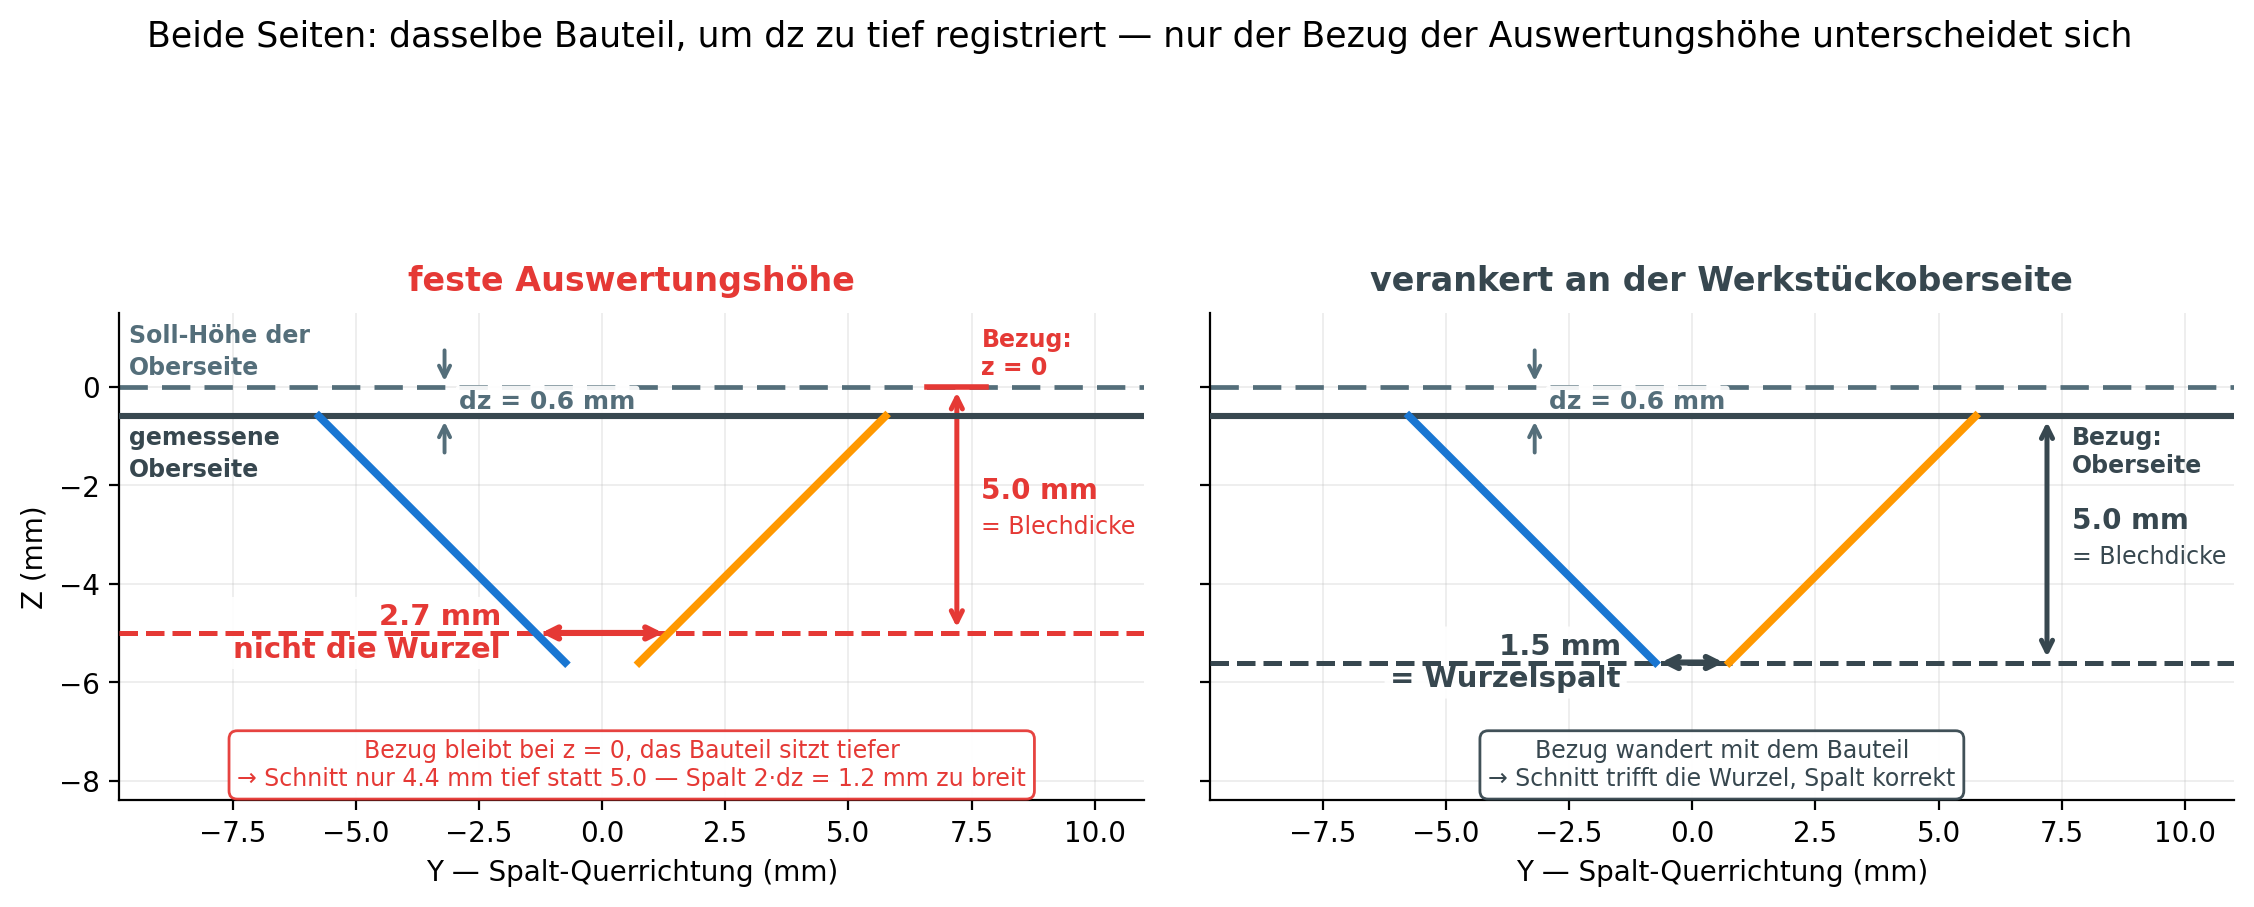
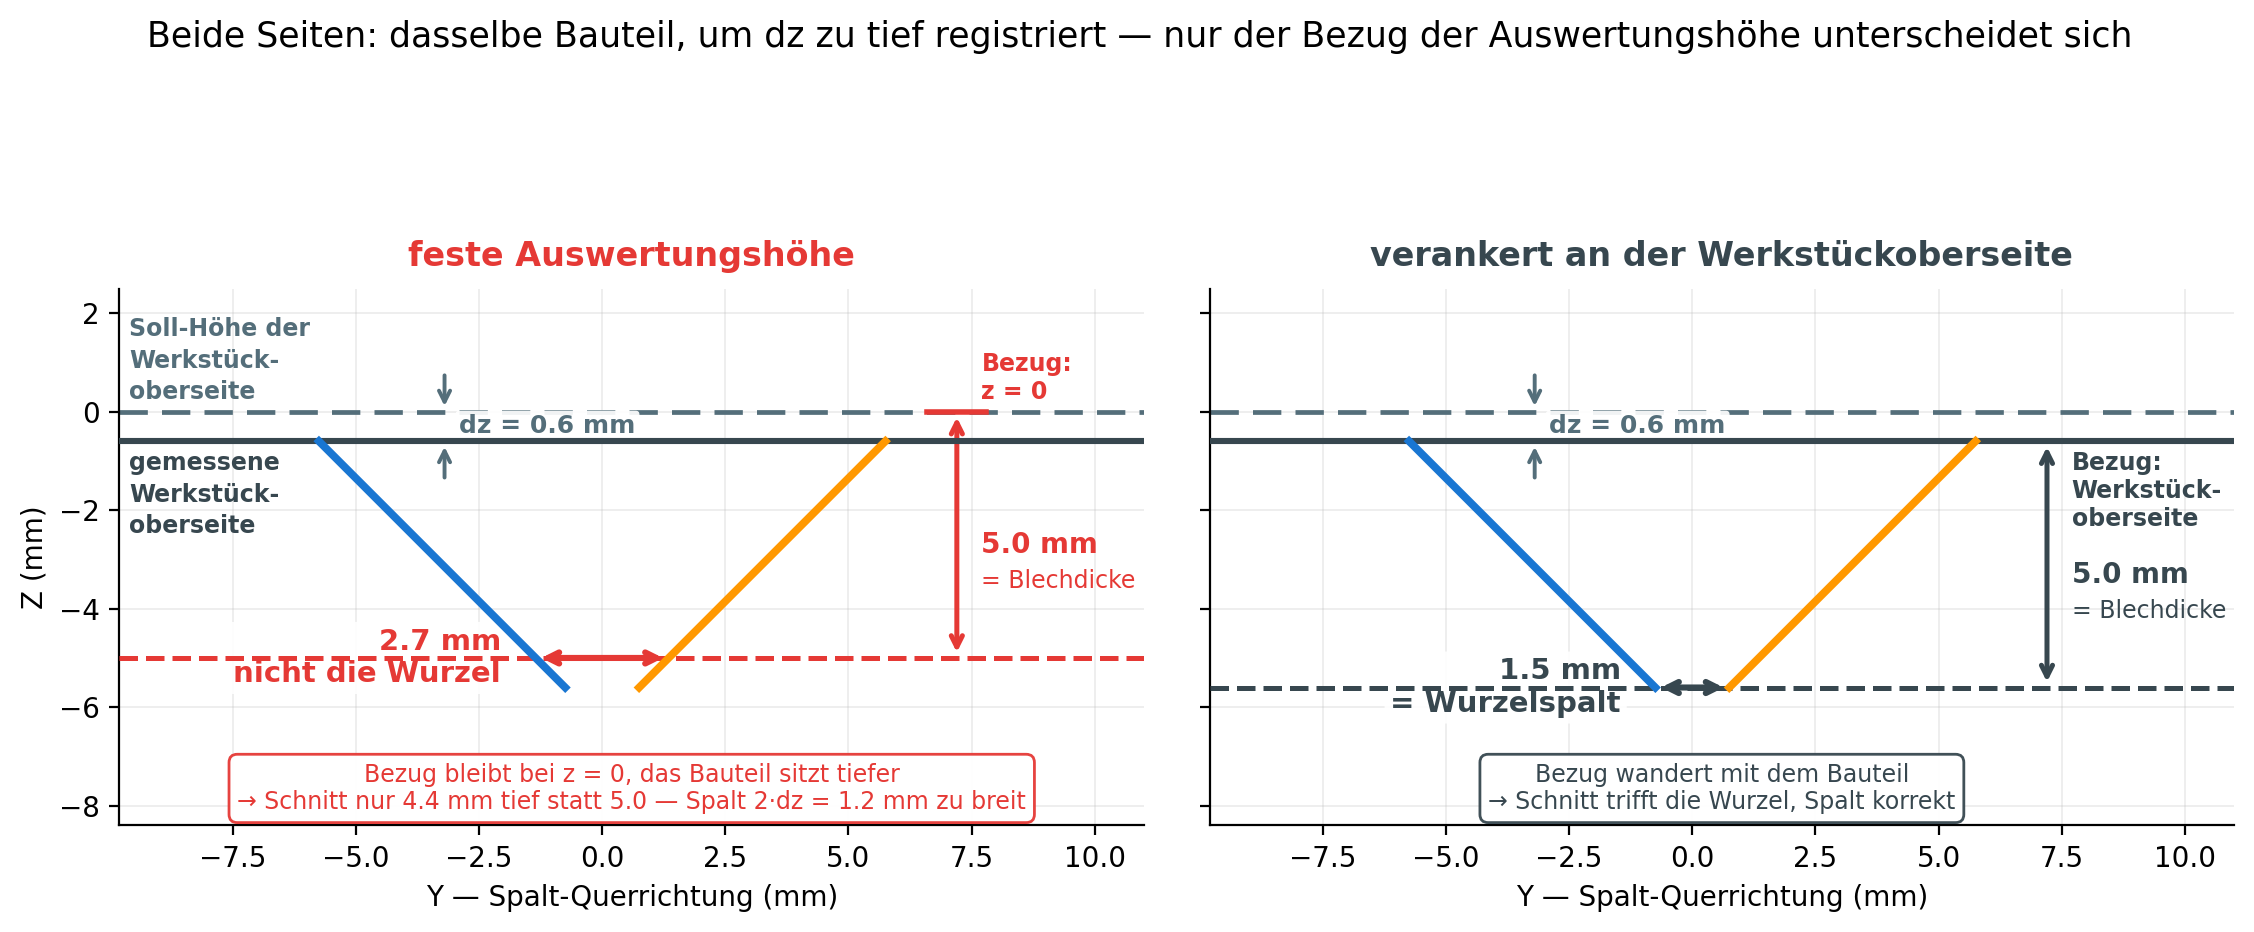
docs: vollen Begriff in den Abbildungen, mit Bindestrich umbrochen
"Werkstueckoberseite" passt ausgeschrieben nicht neben die dz-Bemassung -
statt der Kurzform "Oberseite" steht der Begriff jetzt vollstaendig da,
ueber zwei Zeilen getrennt ("Werkstueck-" / "oberseite"). Damit ist die
Benennung in Bild und Text identisch, ohne dass etwas kollidiert.

Noetig dafuer: etwas Kopfraum fuer die nun dreizeilige Soll-Hoehen-
Beschriftung, und die Blechdicken-Bemassung sitzt nicht mehr mittig,
sondern etwas tiefer - sonst stoesst die Ankerbeschriftung von oben dagegen.

Bild 2 traegt den vollen Begriff ebenfalls wieder, dort war ohnehin Platz.

diff --git a/scripts/generate_methodik_figures.py b/scripts/generate_methodik_figures.py
@@ -146,7 +146,7 @@ def figure_cross_section(path: Path):
 
     # Referenzebene (der Anker)
     ax.axhline(0, color=C_REF, linewidth=2.2, zorder=6)
-    ax.text(0, 0.55, "Referenzebene — Oberseite Werkstück A   (d = 0)",
+    ax.text(0, 0.55, "Referenzebene — Werkstückoberseite A   (d = 0)",
             color=C_REF, fontsize=9.5, weight="bold", ha="center")
 
     # Flankenprofile über ihrem Fitband
@@ -230,9 +230,9 @@ def figure_amplification(path: Path):
             z_anchor = z_deck                # Bezug: Oberseite des Bauteils
             z_eval = z_deck - d_nom
             farbe, titel = C_REF, "verankert an der Werkstückoberseite"
-            # Kurzform in den Beschriftungen: der Panel-Titel traegt den
-            # vollen Begriff, ausgeschrieben kollidieren sie mit der Bemassung.
-            anchor_txt = "Bezug:\nOberseite"
+            # Mit Bindestrich umbrochen: ausgeschrieben auf einer Zeile
+            # kollidiert der Begriff mit der Bemassung.
+            anchor_txt = "Bezug:\nWerkstück-\noberseite"
             mess_txt = "= Wurzelspalt"
             note = ("Bezug wandert mit dem Bauteil\n"
                     "→ Schnitt trifft die Wurzel, Spalt korrekt")
@@ -256,7 +256,9 @@ def figure_amplification(path: Path):
                     arrowprops=dict(arrowstyle="<->", color=farbe, lw=1.8))
         # Die Auswertetiefe entspricht der Blechdicke: die Wurzel liegt genau
         # eine Blechdicke unter der Werkstückoberseite.
-        z_mid = (z_anchor + z_eval) / 2
+        # Nicht mittig, sondern etwas tiefer: sonst stoesst die dreizeilige
+        # Ankerbeschriftung von oben an die Massangabe.
+        z_mid = z_anchor - 0.62 * (z_anchor - z_eval)
         ax.text(x_depth + 0.5, z_mid + 0.1, f"{d_nom:.1f} mm",
                 color=farbe, fontsize=10, va="bottom", weight="bold")
         ax.text(x_depth + 0.5, z_mid - 0.1, "= Blechdicke",
@@ -299,7 +301,7 @@ def figure_amplification(path: Path):
                           edgecolor=farbe, alpha=0.95))
         ax.set_title(titel, fontsize=12, color=farbe, weight="bold", pad=8)
         ax.set_xlim(-9.8, 11.0)
-        ax.set_ylim(-THICK - 3.4, 1.5)
+        ax.set_ylim(-THICK - 3.4, 2.5)
         ax.set_aspect("equal")
         _style(ax, "Y — Spalt-Querrichtung (mm)", "")
 
@@ -310,10 +312,10 @@ def figure_amplification(path: Path):
     # Beide Beschriftungen direkt an ihrer Linie – frei schwebend liessen
     # sie sich nicht zuordnen. Zweizeilig, weil ein breiter Text sonst in
     # Flanke A hineinlaeuft. Der Zahlenwert steht an der dz-Bemassung.
-    axes[0].text(-9.6, 0.15, "Soll-Höhe der\nOberseite",
+    axes[0].text(-9.6, 0.15, "Soll-Höhe der\nWerkstück-\noberseite",
                  color=C_SOLL, fontsize=8.5, weight="bold", va="bottom",
                  linespacing=1.4)
-    axes[0].text(-9.6, -0.8, "gemessene\nOberseite",
+    axes[0].text(-9.6, -0.8, "gemessene\nWerkstück-\noberseite",
                  color=C_REF, fontsize=8.5, weight="bold", va="top",
                  linespacing=1.4)
     fig.suptitle(
